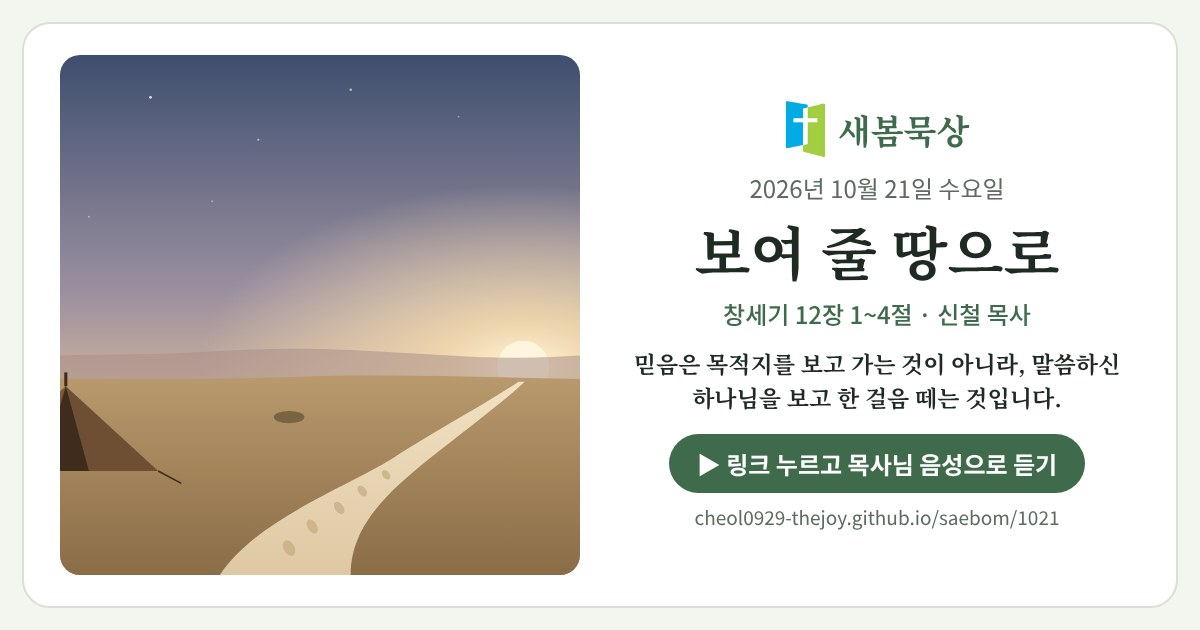
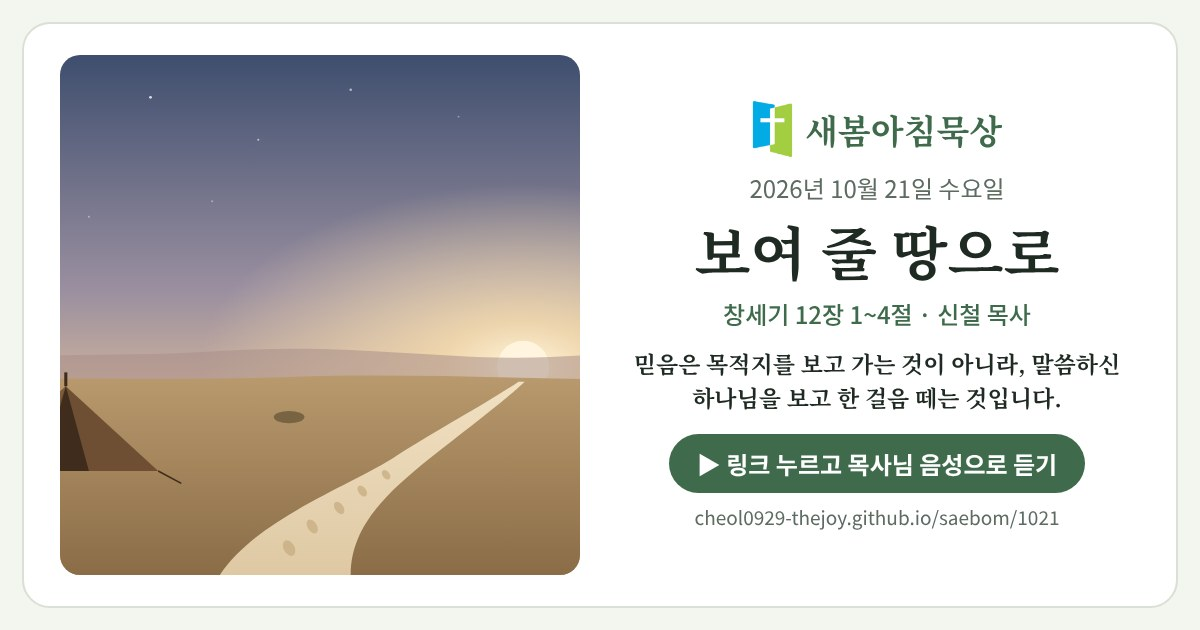
이름을 새봄아침묵상으로 변경, 공유 카드 다시 만들기
Claude-Session: https://claude.ai/code/session_015QLrzJ3eQQwXRfgxaMfB7k

Changed region(s): [[0.6167, 0.1508, 0.8325, 0.2714]]

diff --git a/kakao.html b/kakao.html
@@ -4,7 +4,7 @@
 <meta charset="utf-8">
 <meta name="viewport" content="width=device-width,initial-scale=1">
 <meta name="robots" content="noindex">
-<title>새봄묵상 카카오톡으로 보내기</title>
+<title>새봄아침묵상 카카오톡으로 보내기</title>
 <style>
   :root{--bg:#F5F2EA;--card:#fff;--ink:#22302A;--muted:#6B7368;--leaf:#3F6B4C}
   @media (prefers-color-scheme:dark){:root{--bg:#141A16;--card:#1D2520;--ink:#E8EDE6;--muted:#9AA79C;--leaf:#8DBE97}}
@@ -22,9 +22,9 @@
 </head>
 <body>
 <main>
-  <h1>오늘의 새봄묵상 보내기</h1>
+  <h1>오늘의 새봄아침묵상 보내기</h1>
   <p>아래 노란 버튼을 누르고 받을 친구나 단톡방을 고르시면<br>이 그림 카드가 그대로 전달됩니다.</p>
-  <img id="pic" alt="새봄묵상 카드">
+  <img id="pic" alt="새봄아침묵상 카드">
   <button id="send" type="button">💬 카카오톡으로 보내기</button>
   <div class="msg" id="msg" role="status"></div>
 </main>
@@ -34,7 +34,7 @@
   var BASE="https://cheol0929-thejoy.github.io/saebom/";
   var d=(new URLSearchParams(location.search).get("d")||"").trim();
   var msg=document.getElementById("msg"), btn=document.getElementById("send");
-  if(!/^\d{4}$/.test(d)){msg.textContent="묵상 날짜가 없습니다. 새봄묵상 페이지에서 다시 눌러 주세요.";btn.disabled=true;return;}
+  if(!/^\d{4}$/.test(d)){msg.textContent="묵상 날짜가 없습니다. 새봄아침묵상 페이지에서 다시 눌러 주세요.";btn.disabled=true;return;}
   document.getElementById("pic").src=BASE+d+"/share.jpg";
   var ready=false;
   try{ if(window.Kakao){ if(!Kakao.isInitialized()) Kakao.init("18f90d0a89fa7ab9aa74779f9fae1c5e"); ready=Kakao.isInitialized(); } }catch(e){}

diff --git a/404.html b/404.html
@@ -1,5 +1,5 @@
 <!doctype html><html lang="ko"><head><meta charset="utf-8"><meta name="viewport" content="width=device-width,initial-scale=1">
-<title>새봄묵상</title><meta property="og:title" content="새봄묵상"><meta property="og:description" content="새봄교회 매일 묵상 · 신철 목사">
+<title>새봄아침묵상</title><meta property="og:title" content="새봄아침묵상"><meta property="og:description" content="새봄교회 매일 묵상 · 신철 목사">
 <meta property="og:image" content="https://cheol0929-thejoy.github.io/saebom/og.jpg"><meta property="og:image:width" content="1200"><meta property="og:image:height" content="630">
 <style>body{font-family:sans-serif;text-align:center;padding:40px 16px;background:#F3F5EF}a{color:#3F6B4C;font-size:20px}</style></head>
-<body><p>새봄묵상으로 이동합니다…</p><p><a href="https://claude.ai/artifact/83acT3uNMUC3NGidY5284F">바로 가기</a></p><script>setTimeout(function(){location.replace("https://claude.ai/artifact/83acT3uNMUC3NGidY5284F");},300);</script></body></html>
+<body><p>새봄아침묵상으로 이동합니다…</p><p><a href="https://claude.ai/artifact/83acT3uNMUC3NGidY5284F">바로 가기</a></p><script>setTimeout(function(){location.replace("https://claude.ai/artifact/83acT3uNMUC3NGidY5284F");},300);</script></body></html>

diff --git a/index.html b/index.html
@@ -1,5 +1,5 @@
 <!doctype html><html lang="ko"><head><meta charset="utf-8"><meta name="viewport" content="width=device-width,initial-scale=1">
-<title>새봄묵상</title><meta property="og:title" content="새봄묵상"><meta property="og:description" content="새봄교회 매일 묵상 · 신철 목사">
+<title>새봄아침묵상</title><meta property="og:title" content="새봄아침묵상"><meta property="og:description" content="새봄교회 매일 묵상 · 신철 목사">
 <meta property="og:image" content="https://cheol0929-thejoy.github.io/saebom/og.jpg"><meta property="og:image:width" content="1200"><meta property="og:image:height" content="630">
 <style>body{font-family:sans-serif;text-align:center;padding:40px 16px;background:#F3F5EF}a{color:#3F6B4C;font-size:20px}</style></head>
-<body><p>새봄묵상으로 이동합니다…</p><p><a href="https://claude.ai/artifact/83acT3uNMUC3NGidY5284F">바로 가기</a></p><script>setTimeout(function(){location.replace("https://claude.ai/artifact/83acT3uNMUC3NGidY5284F");},300);</script></body></html>
+<body><p>새봄아침묵상으로 이동합니다…</p><p><a href="https://claude.ai/artifact/83acT3uNMUC3NGidY5284F">바로 가기</a></p><script>setTimeout(function(){location.replace("https://claude.ai/artifact/83acT3uNMUC3NGidY5284F");},300);</script></body></html>

diff --git a/1014.html b/1014.html
@@ -2,7 +2,7 @@
 <meta name="viewport" content="width=device-width,initial-scale=1">
 <title>새봄 2026</title>
 <meta property="og:type" content="article">
-<meta property="og:site_name" content="새봄묵상">
+<meta property="og:site_name" content="새봄아침묵상">
 <meta property="og:title" content="새봄 2026">
 <meta property="og:description" content="교회, 사명의 자리에 서라">
 <meta name="description" content="교회, 사명의 자리에 서라">
@@ -12,5 +12,5 @@
 <meta property="og:image:width" content="1200"><meta property="og:image:height" content="630">
 <meta name="twitter:card" content="summary_large_image">
 <style>body{font-family:sans-serif;text-align:center;padding:40px 16px;background:#F3F5EF;color:#1F2A22}a{color:#3F6B4C;font-size:20px}</style>
-</head><body><p>새봄묵상으로 이동합니다…</p><p><a href="https://claude.ai/artifact/83acT3uNMUC3NGidY5284F#d20261014">바로 가기</a></p>
+</head><body><p>새봄아침묵상으로 이동합니다…</p><p><a href="https://claude.ai/artifact/83acT3uNMUC3NGidY5284F#d20261014">바로 가기</a></p>
 <script>setTimeout(function(){location.replace("https://claude.ai/artifact/83acT3uNMUC3NGidY5284F#d20261014");},300);</script></body></html>

diff --git a/1014/index.html b/1014/index.html
@@ -2,7 +2,7 @@
 <meta name="viewport" content="width=device-width,initial-scale=1">
 <title>새봄 2026</title>
 <meta property="og:type" content="article">
-<meta property="og:site_name" content="새봄묵상">
+<meta property="og:site_name" content="새봄아침묵상">
 <meta property="og:title" content="새봄 2026">
 <meta property="og:description" content="교회, 사명의 자리에 서라">
 <meta name="description" content="교회, 사명의 자리에 서라">
@@ -12,5 +12,5 @@
 <meta property="og:image:width" content="1200"><meta property="og:image:height" content="630">
 <meta name="twitter:card" content="summary_large_image">
 <style>body{font-family:sans-serif;text-align:center;padding:40px 16px;background:#F3F5EF;color:#1F2A22}a{color:#3F6B4C;font-size:20px}</style>
-</head><body><p>새봄묵상으로 이동합니다…</p><p><a href="https://claude.ai/artifact/83acT3uNMUC3NGidY5284F#d20261014">바로 가기</a></p>
+</head><body><p>새봄아침묵상으로 이동합니다…</p><p><a href="https://claude.ai/artifact/83acT3uNMUC3NGidY5284F#d20261014">바로 가기</a></p>
 <script>setTimeout(function(){location.replace("https://claude.ai/artifact/83acT3uNMUC3NGidY5284F#d20261014");},300);</script></body></html>

diff --git a/1015.html b/1015.html
@@ -2,7 +2,7 @@
 <meta name="viewport" content="width=device-width,initial-scale=1">
 <title>새봄 2026</title>
 <meta property="og:type" content="article">
-<meta property="og:site_name" content="새봄묵상">
+<meta property="og:site_name" content="새봄아침묵상">
 <meta property="og:title" content="새봄 2026">
 <meta property="og:description" content="교회, 사명의 자리에 서라">
 <meta name="description" content="교회, 사명의 자리에 서라">
@@ -12,5 +12,5 @@
 <meta property="og:image:width" content="1200"><meta property="og:image:height" content="630">
 <meta name="twitter:card" content="summary_large_image">
 <style>body{font-family:sans-serif;text-align:center;padding:40px 16px;background:#F3F5EF;color:#1F2A22}a{color:#3F6B4C;font-size:20px}</style>
-</head><body><p>새봄묵상으로 이동합니다…</p><p><a href="https://claude.ai/artifact/83acT3uNMUC3NGidY5284F#d20261015">바로 가기</a></p>
+</head><body><p>새봄아침묵상으로 이동합니다…</p><p><a href="https://claude.ai/artifact/83acT3uNMUC3NGidY5284F#d20261015">바로 가기</a></p>
 <script>setTimeout(function(){location.replace("https://claude.ai/artifact/83acT3uNMUC3NGidY5284F#d20261015");},300);</script></body></html>

diff --git a/1015/index.html b/1015/index.html
@@ -2,7 +2,7 @@
 <meta name="viewport" content="width=device-width,initial-scale=1">
 <title>새봄 2026</title>
 <meta property="og:type" content="article">
-<meta property="og:site_name" content="새봄묵상">
+<meta property="og:site_name" content="새봄아침묵상">
 <meta property="og:title" content="새봄 2026">
 <meta property="og:description" content="교회, 사명의 자리에 서라">
 <meta name="description" content="교회, 사명의 자리에 서라">
@@ -12,5 +12,5 @@
 <meta property="og:image:width" content="1200"><meta property="og:image:height" content="630">
 <meta name="twitter:card" content="summary_large_image">
 <style>body{font-family:sans-serif;text-align:center;padding:40px 16px;background:#F3F5EF;color:#1F2A22}a{color:#3F6B4C;font-size:20px}</style>
-</head><body><p>새봄묵상으로 이동합니다…</p><p><a href="https://claude.ai/artifact/83acT3uNMUC3NGidY5284F#d20261015">바로 가기</a></p>
+</head><body><p>새봄아침묵상으로 이동합니다…</p><p><a href="https://claude.ai/artifact/83acT3uNMUC3NGidY5284F#d20261015">바로 가기</a></p>
 <script>setTimeout(function(){location.replace("https://claude.ai/artifact/83acT3uNMUC3NGidY5284F#d20261015");},300);</script></body></html>

diff --git a/1016.html b/1016.html
@@ -2,7 +2,7 @@
 <meta name="viewport" content="width=device-width,initial-scale=1">
 <title>새봄 2026</title>
 <meta property="og:type" content="article">
-<meta property="og:site_name" content="새봄묵상">
+<meta property="og:site_name" content="새봄아침묵상">
 <meta property="og:title" content="새봄 2026">
 <meta property="og:description" content="교회, 사명의 자리에 서라">
 <meta name="description" content="교회, 사명의 자리에 서라">
@@ -12,5 +12,5 @@
 <meta property="og:image:width" content="1200"><meta property="og:image:height" content="630">
 <meta name="twitter:card" content="summary_large_image">
 <style>body{font-family:sans-serif;text-align:center;padding:40px 16px;background:#F3F5EF;color:#1F2A22}a{color:#3F6B4C;font-size:20px}</style>
-</head><body><p>새봄묵상으로 이동합니다…</p><p><a href="https://claude.ai/artifact/83acT3uNMUC3NGidY5284F#d20261016">바로 가기</a></p>
+</head><body><p>새봄아침묵상으로 이동합니다…</p><p><a href="https://claude.ai/artifact/83acT3uNMUC3NGidY5284F#d20261016">바로 가기</a></p>
 <script>setTimeout(function(){location.replace("https://claude.ai/artifact/83acT3uNMUC3NGidY5284F#d20261016");},300);</script></body></html>

diff --git a/1016/index.html b/1016/index.html
@@ -2,7 +2,7 @@
 <meta name="viewport" content="width=device-width,initial-scale=1">
 <title>새봄 2026</title>
 <meta property="og:type" content="article">
-<meta property="og:site_name" content="새봄묵상">
+<meta property="og:site_name" content="새봄아침묵상">
 <meta property="og:title" content="새봄 2026">
 <meta property="og:description" content="교회, 사명의 자리에 서라">
 <meta name="description" content="교회, 사명의 자리에 서라">
@@ -12,5 +12,5 @@
 <meta property="og:image:width" content="1200"><meta property="og:image:height" content="630">
 <meta name="twitter:card" content="summary_large_image">
 <style>body{font-family:sans-serif;text-align:center;padding:40px 16px;background:#F3F5EF;color:#1F2A22}a{color:#3F6B4C;font-size:20px}</style>
-</head><body><p>새봄묵상으로 이동합니다…</p><p><a href="https://claude.ai/artifact/83acT3uNMUC3NGidY5284F#d20261016">바로 가기</a></p>
+</head><body><p>새봄아침묵상으로 이동합니다…</p><p><a href="https://claude.ai/artifact/83acT3uNMUC3NGidY5284F#d20261016">바로 가기</a></p>
 <script>setTimeout(function(){location.replace("https://claude.ai/artifact/83acT3uNMUC3NGidY5284F#d20261016");},300);</script></body></html>

diff --git a/1017.html b/1017.html
@@ -2,7 +2,7 @@
 <meta name="viewport" content="width=device-width,initial-scale=1">
 <title>새봄 2026</title>
 <meta property="og:type" content="article">
-<meta property="og:site_name" content="새봄묵상">
+<meta property="og:site_name" content="새봄아침묵상">
 <meta property="og:title" content="새봄 2026">
 <meta property="og:description" content="교회, 사명의 자리에 서라">
 <meta name="description" content="교회, 사명의 자리에 서라">
@@ -12,5 +12,5 @@
 <meta property="og:image:width" content="1200"><meta property="og:image:height" content="630">
 <meta name="twitter:card" content="summary_large_image">
 <style>body{font-family:sans-serif;text-align:center;padding:40px 16px;background:#F3F5EF;color:#1F2A22}a{color:#3F6B4C;font-size:20px}</style>
-</head><body><p>새봄묵상으로 이동합니다…</p><p><a href="https://claude.ai/artifact/83acT3uNMUC3NGidY5284F#d20261017">바로 가기</a></p>
+</head><body><p>새봄아침묵상으로 이동합니다…</p><p><a href="https://claude.ai/artifact/83acT3uNMUC3NGidY5284F#d20261017">바로 가기</a></p>
 <script>setTimeout(function(){location.replace("https://claude.ai/artifact/83acT3uNMUC3NGidY5284F#d20261017");},300);</script></body></html>

diff --git a/1017/index.html b/1017/index.html
@@ -2,7 +2,7 @@
 <meta name="viewport" content="width=device-width,initial-scale=1">
 <title>새봄 2026</title>
 <meta property="og:type" content="article">
-<meta property="og:site_name" content="새봄묵상">
+<meta property="og:site_name" content="새봄아침묵상">
 <meta property="og:title" content="새봄 2026">
 <meta property="og:description" content="교회, 사명의 자리에 서라">
 <meta name="description" content="교회, 사명의 자리에 서라">
@@ -12,5 +12,5 @@
 <meta property="og:image:width" content="1200"><meta property="og:image:height" content="630">
 <meta name="twitter:card" content="summary_large_image">
 <style>body{font-family:sans-serif;text-align:center;padding:40px 16px;background:#F3F5EF;color:#1F2A22}a{color:#3F6B4C;font-size:20px}</style>
-</head><body><p>새봄묵상으로 이동합니다…</p><p><a href="https://claude.ai/artifact/83acT3uNMUC3NGidY5284F#d20261017">바로 가기</a></p>
+</head><body><p>새봄아침묵상으로 이동합니다…</p><p><a href="https://claude.ai/artifact/83acT3uNMUC3NGidY5284F#d20261017">바로 가기</a></p>
 <script>setTimeout(function(){location.replace("https://claude.ai/artifact/83acT3uNMUC3NGidY5284F#d20261017");},300);</script></body></html>

diff --git a/1018.html b/1018.html
@@ -2,7 +2,7 @@
 <meta name="viewport" content="width=device-width,initial-scale=1">
 <title>새봄 2026</title>
 <meta property="og:type" content="article">
-<meta property="og:site_name" content="새봄묵상">
+<meta property="og:site_name" content="새봄아침묵상">
 <meta property="og:title" content="새봄 2026">
 <meta property="og:description" content="교회, 사명의 자리에 서라">
 <meta name="description" content="교회, 사명의 자리에 서라">
@@ -12,5 +12,5 @@
 <meta property="og:image:width" content="1200"><meta property="og:image:height" content="630">
 <meta name="twitter:card" content="summary_large_image">
 <style>body{font-family:sans-serif;text-align:center;padding:40px 16px;background:#F3F5EF;color:#1F2A22}a{color:#3F6B4C;font-size:20px}</style>
-</head><body><p>새봄묵상으로 이동합니다…</p><p><a href="https://claude.ai/artifact/83acT3uNMUC3NGidY5284F#d20261018">바로 가기</a></p>
+</head><body><p>새봄아침묵상으로 이동합니다…</p><p><a href="https://claude.ai/artifact/83acT3uNMUC3NGidY5284F#d20261018">바로 가기</a></p>
 <script>setTimeout(function(){location.replace("https://claude.ai/artifact/83acT3uNMUC3NGidY5284F#d20261018");},300);</script></body></html>
